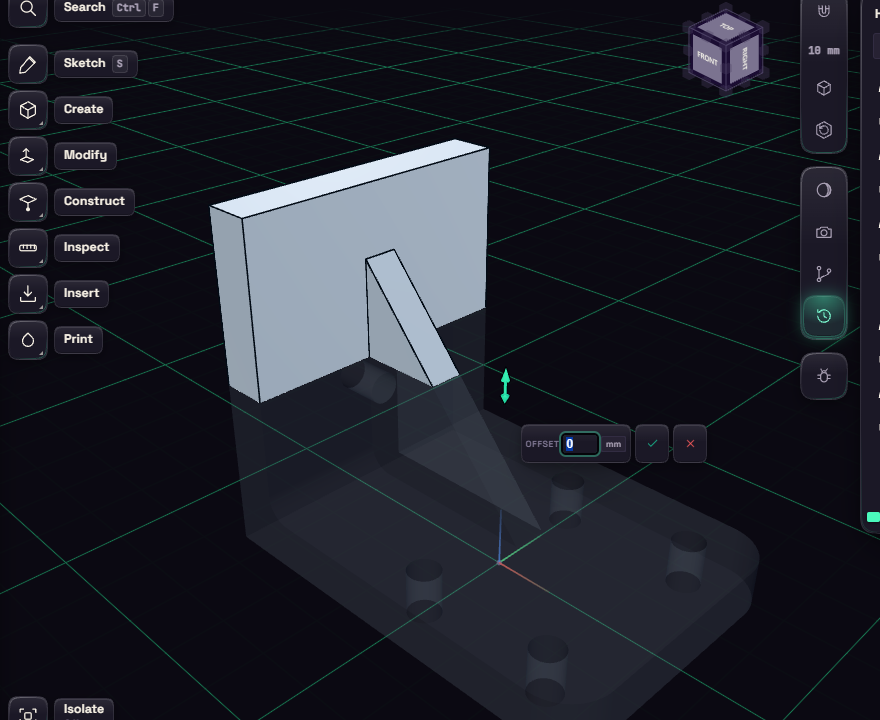
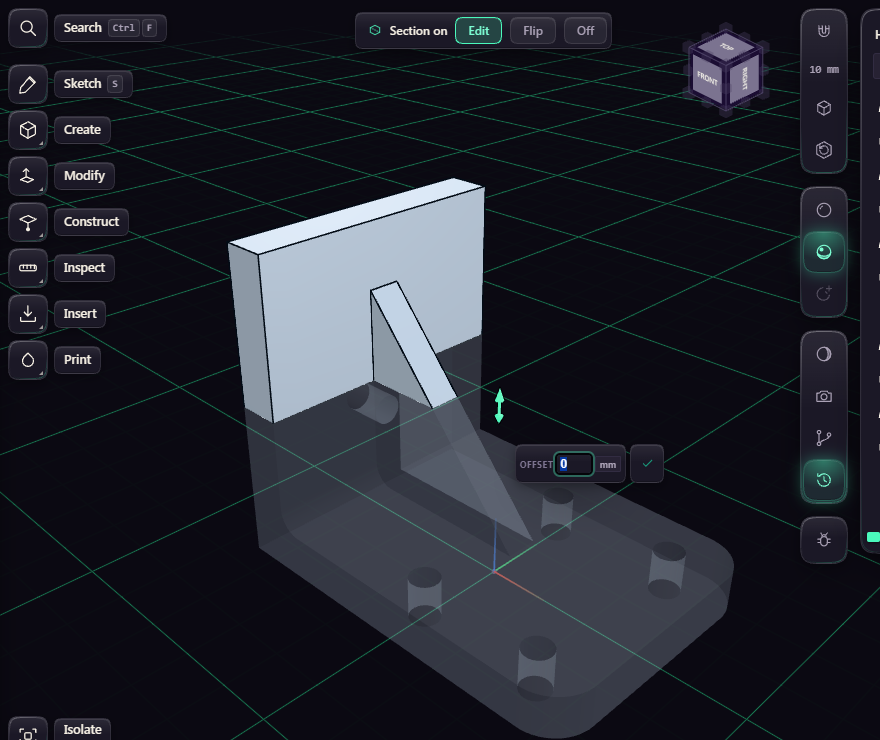
docs: the Section page explains keeping a cut on, the chip and saving it

diff --git a/manual/docs/inspect/section.md b/manual/docs/inspect/section.md
@@ -4,6 +4,12 @@ Section cuts the model open with a plane so you can see inside.
 
 ![A bracket cut along Z with the offset handle and value box](../img/section-handle.png)
 
-Pick Section under Inspect, then a face, a plane, or the Z, X or Y axis. Z gives a horizontal slice. Drag the handle or type a distance, and press F to flip the kept half. The cut half stays as a faint ghost, and G changes how strong it is.
+Pick Section under Inspect, then a face, a plane, or the Z, X or Y axis. Z gives a horizontal slice. Drag the handle or type a distance, press F to flip the kept half, and G to change how strong the faint ghost of the cut half is.
 
-Section stays on while you work, so you can orbit and select. Press Esc to leave it.
+Press Enter, the check or Esc when the cut is where you want it. The handle goes away and the cut stays on while you orbit, select, measure and use other tools. Clicks only reach what the cut keeps.
+
+![The cut bracket with the Section on chip and its Edit, Flip and Off buttons](../img/section-chip.png)
+
+While a cut is on, a chip at the top of the view says Section on. Edit brings the handle back, Flip keeps the other half, and Off removes the cut. Section on the rail turns it off too.
+
+The cut is saved with the document and is back when you open it. Undo leaves it alone.
